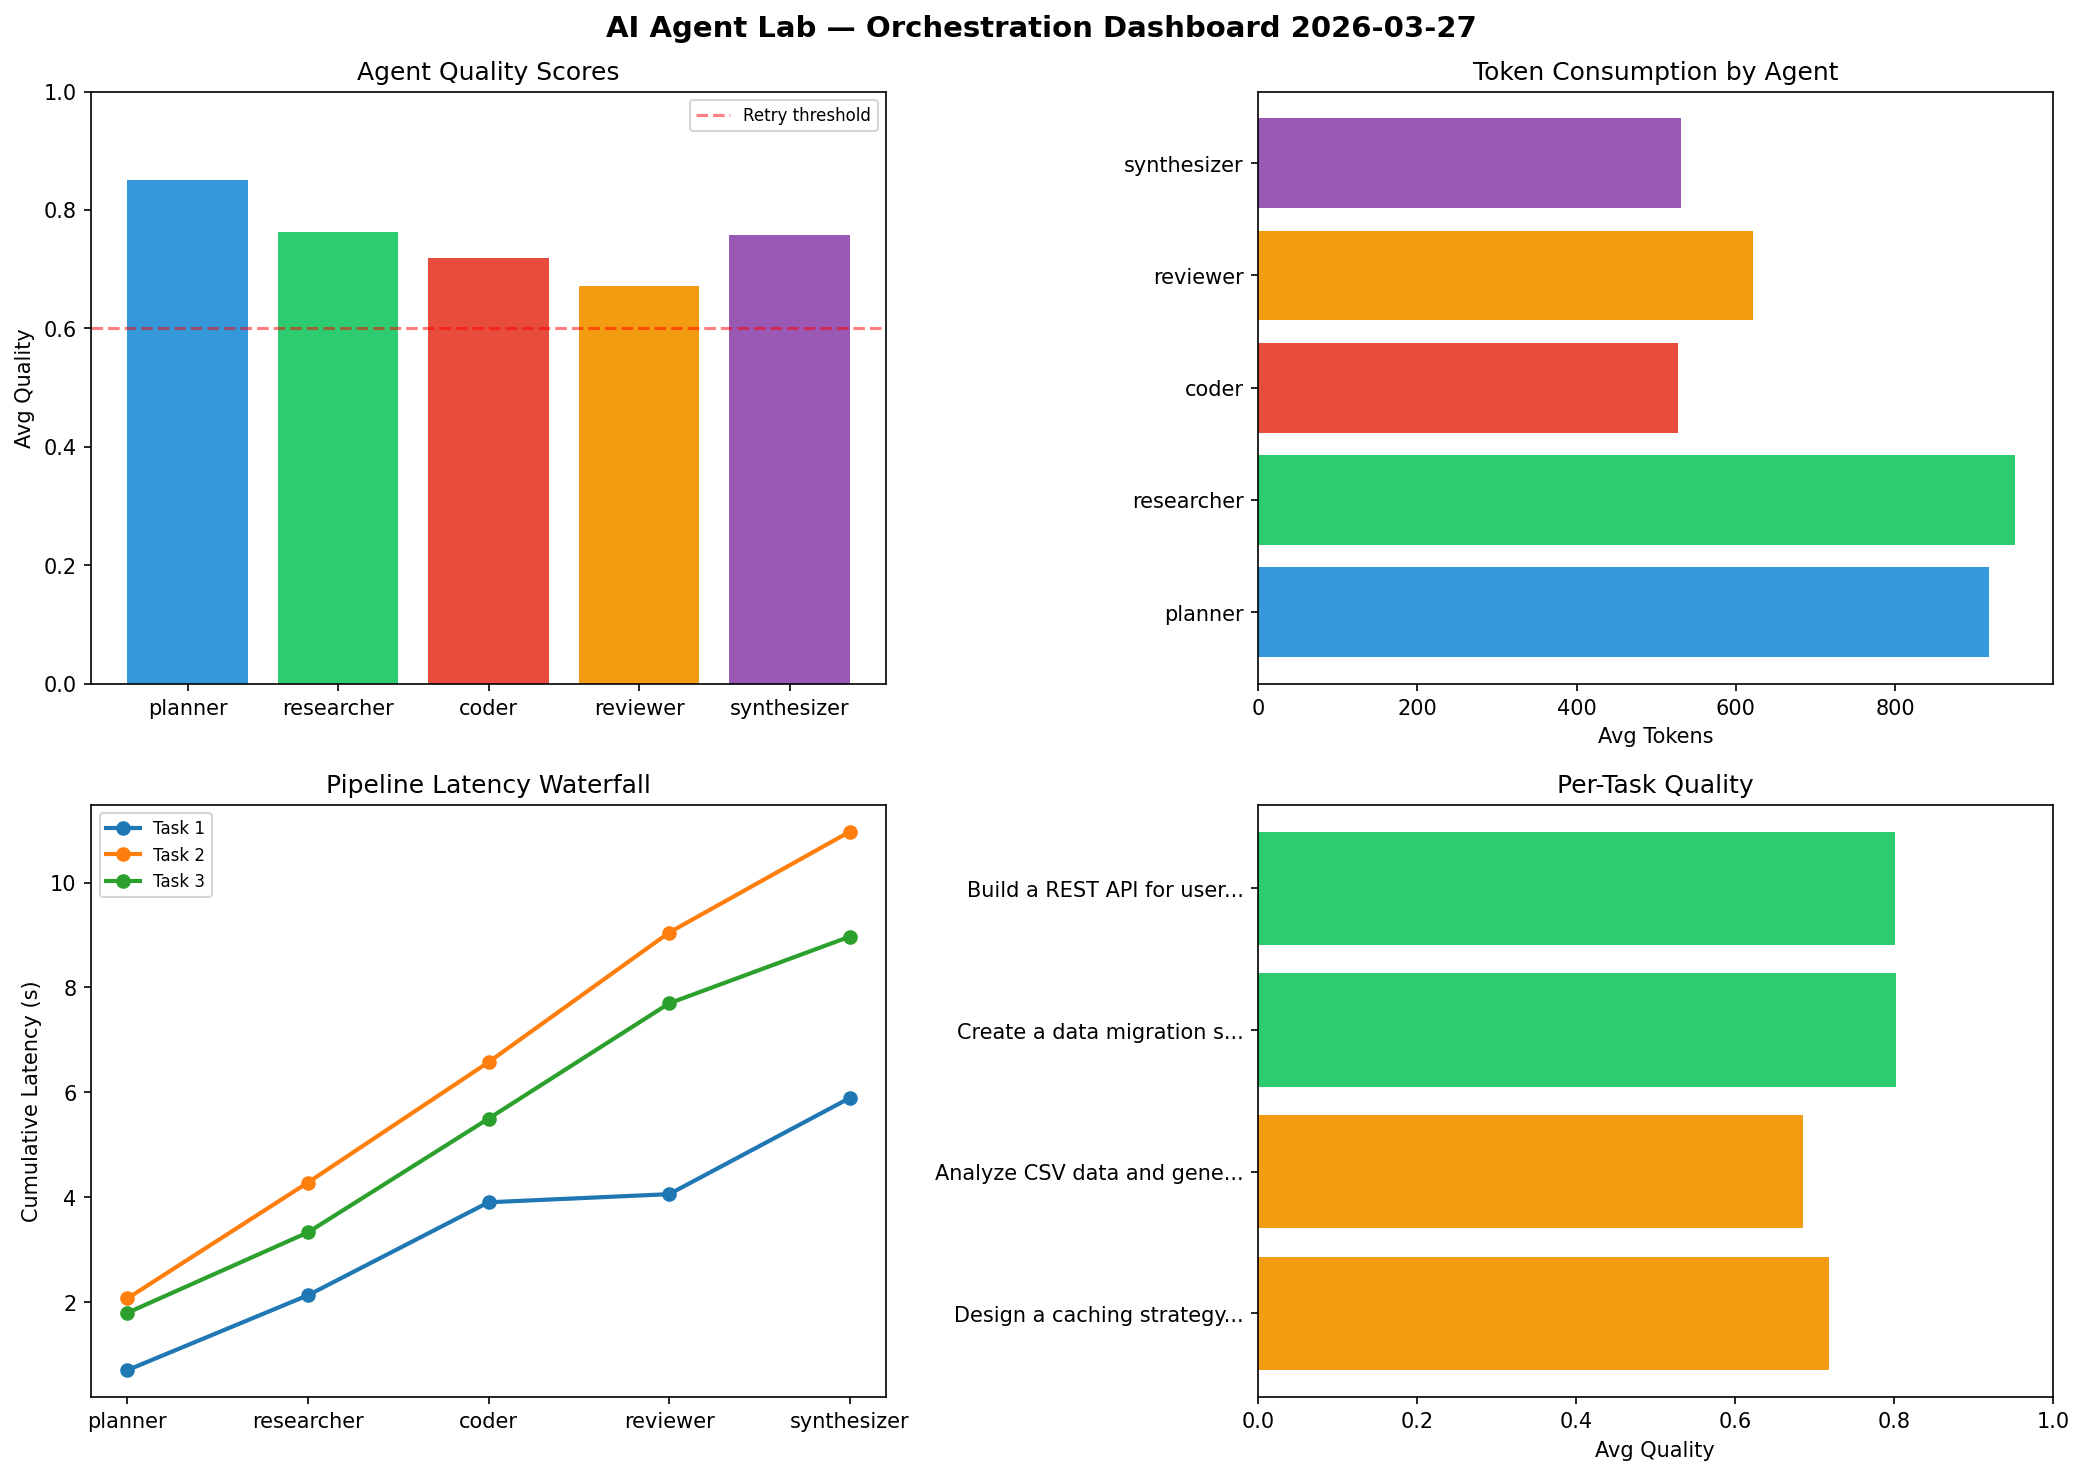
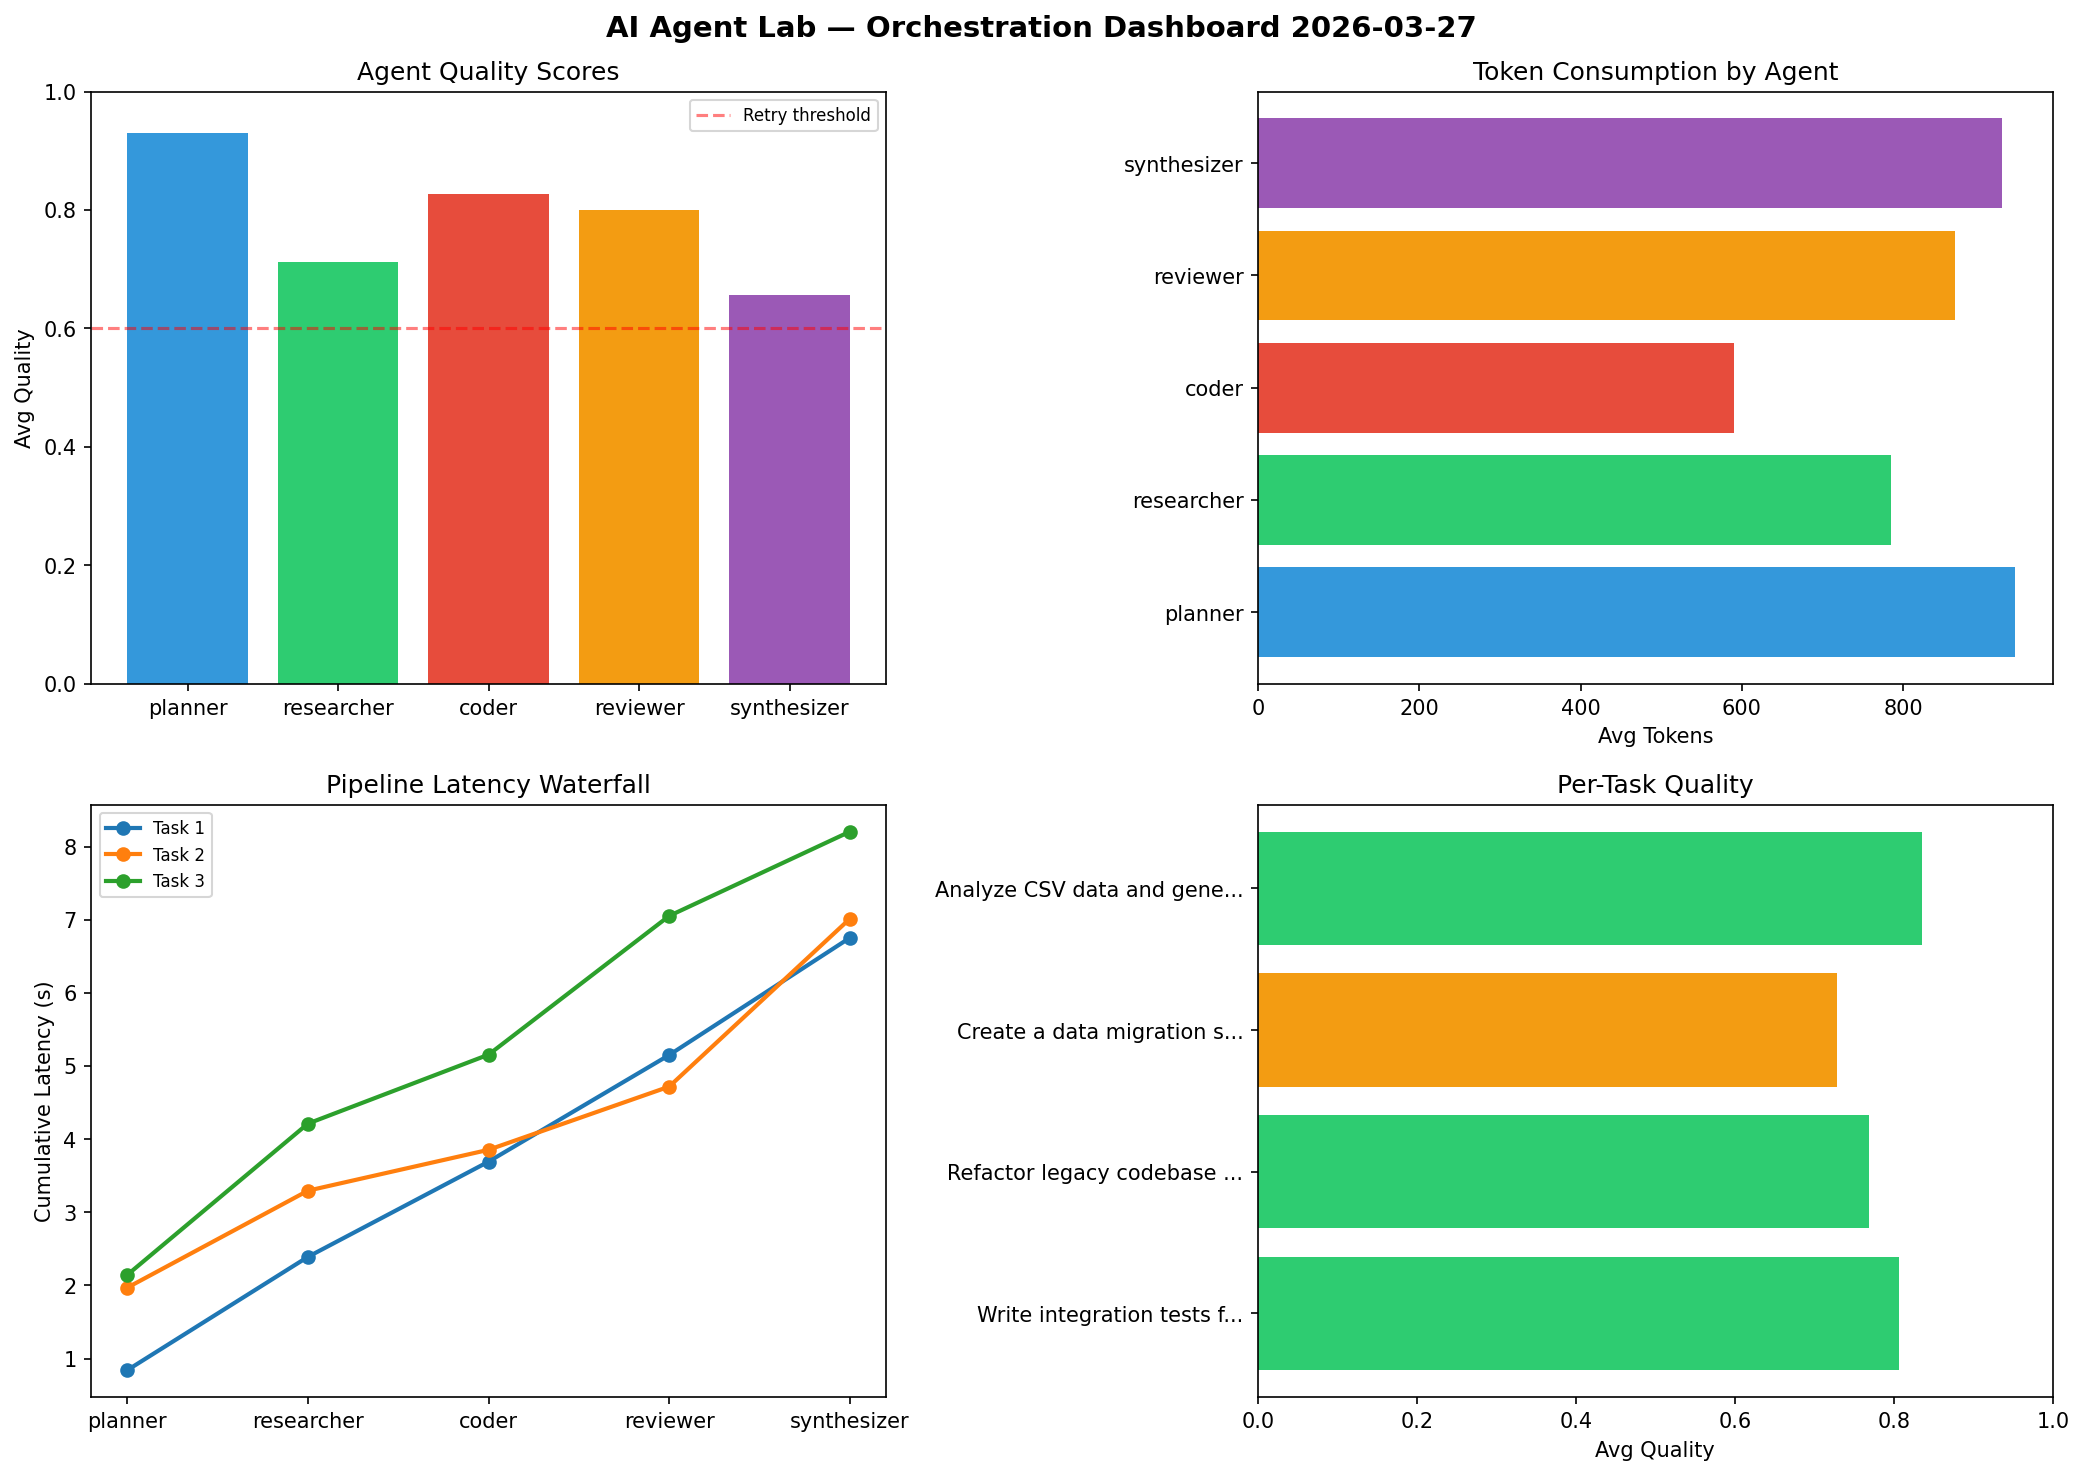
ai-agent-lab: orchestration run 2026-03-27T09:08

diff --git a/logs/2026-03-27.md b/logs/2026-03-27.md
@@ -1,6 +1,6 @@
 # AI Agent Lab — Orchestration Report 2026-03-27
 
-**Run ID:** `3072f47097` | **Tasks:** 4 | **Avg Quality:** 0.753
+**Run ID:** `a00d5d871f` | **Tasks:** 4 | **Avg Quality:** 0.785
 
 ![Dashboard](2026-03-27_dashboard.png)
 
@@ -8,52 +8,52 @@
 
 | Metric | Value |
 |--------|-------|
-| avg_latency | 7.9 |
-| total_tokens | 14189 |
-| avg_quality | 0.753 |
+| avg_latency | 6.806 |
+| total_tokens | 16406 |
+| avg_quality | 0.785 |
 
 ## Delta vs Yesterday
 
 | Metric | Today | Yesterday | Change |
 |--------|-------|-----------|--------|
-| avg_latency | 7.9 | 6.122 | 📈 29.0% |
-| total_tokens | 14189 | 13003 | 📈 9.1% |
-| avg_quality | 0.753 | 0.724 | 📈 4.0% |
+| avg_latency | 6.806 | 6.122 | 📈 11.2% |
+| total_tokens | 16406 | 13003 | 📈 26.2% |
+| avg_quality | 0.785 | 0.724 | 📈 8.4% |
 
 ## Pipeline Results
 
-### Design a caching strategy for high-traffic endpoints
+### Write integration tests for payment processing module
 | Agent | Quality | Latency | Tokens | Status |
 |-------|---------|---------|--------|--------|
-| planner | 0.732 | 0.703s | 1012 | success |
-| researcher | 0.671 | 1.428s | 703 | success |
-| coder | 0.725 | 1.773s | 725 | success |
-| reviewer | 0.559 | 0.155s | 567 | needs_retry |
-| synthesizer | 0.909 | 1.834s | 465 | success |
+| planner | 0.913 | 0.841s | 663 | success |
+| researcher | 0.801 | 1.549s | 439 | success |
+| coder | 0.923 | 1.302s | 425 | success |
+| reviewer | 0.882 | 1.458s | 933 | success |
+| synthesizer | 0.518 | 1.602s | 907 | needs_retry |
 
-### Analyze CSV data and generate statistical summary
+### Refactor legacy codebase to use dependency injection
 | Agent | Quality | Latency | Tokens | Status |
 |-------|---------|---------|--------|--------|
-| planner | 0.94 | 2.07s | 777 | success |
-| researcher | 0.568 | 2.211s | 998 | needs_retry |
-| coder | 0.647 | 2.295s | 407 | success |
-| reviewer | 0.7 | 2.472s | 401 | success |
-| synthesizer | 0.577 | 1.923s | 436 | needs_retry |
+| planner | 0.962 | 1.969s | 1188 | success |
+| researcher | 0.647 | 1.326s | 749 | success |
+| coder | 0.817 | 0.559s | 748 | success |
+| reviewer | 0.877 | 0.864s | 602 | success |
+| synthesizer | 0.544 | 2.295s | 815 | needs_retry |
 
 ### Create a data migration script for schema v2
 | Agent | Quality | Latency | Tokens | Status |
 |-------|---------|---------|--------|--------|
-| planner | 0.959 | 1.796s | 713 | success |
-| researcher | 0.971 | 1.534s | 1061 | success |
-| coder | 0.535 | 2.169s | 287 | needs_retry |
-| reviewer | 0.811 | 2.199s | 987 | success |
-| synthesizer | 0.737 | 1.272s | 929 | success |
+| planner | 0.967 | 2.144s | 874 | success |
+| researcher | 0.799 | 2.068s | 1183 | success |
+| coder | 0.593 | 0.943s | 428 | needs_retry |
+| reviewer | 0.593 | 1.897s | 968 | needs_retry |
+| synthesizer | 0.687 | 1.152s | 853 | success |
 
-### Build a REST API for user authentication
+### Analyze CSV data and generate statistical summary
 | Agent | Quality | Latency | Tokens | Status |
 |-------|---------|---------|--------|--------|
-| planner | 0.774 | 0.415s | 1169 | success |
-| researcher | 0.842 | 2.02s | 1039 | success |
-| coder | 0.968 | 1.696s | 689 | success |
-| reviewer | 0.615 | 0.153s | 531 | success |
-| synthesizer | 0.809 | 1.483s | 293 | success |
+| planner | 0.878 | 1.395s | 1030 | success |
+| researcher | 0.599 | 0.698s | 767 | needs_retry |
+| coder | 0.972 | 0.493s | 760 | success |
+| reviewer | 0.847 | 0.51s | 956 | success |
+| synthesizer | 0.879 | 2.16s | 1118 | success |
